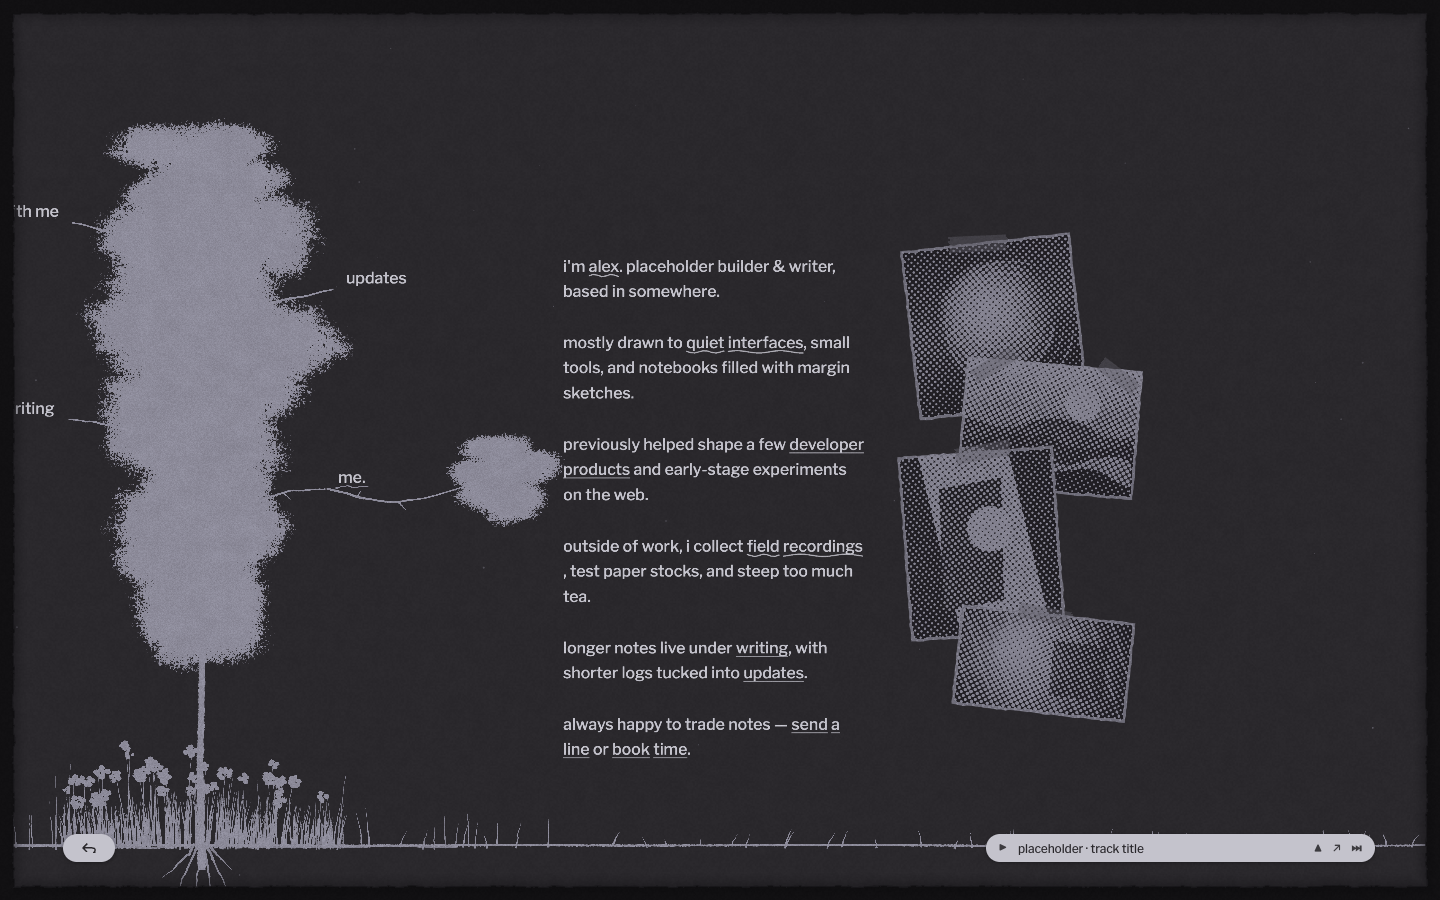
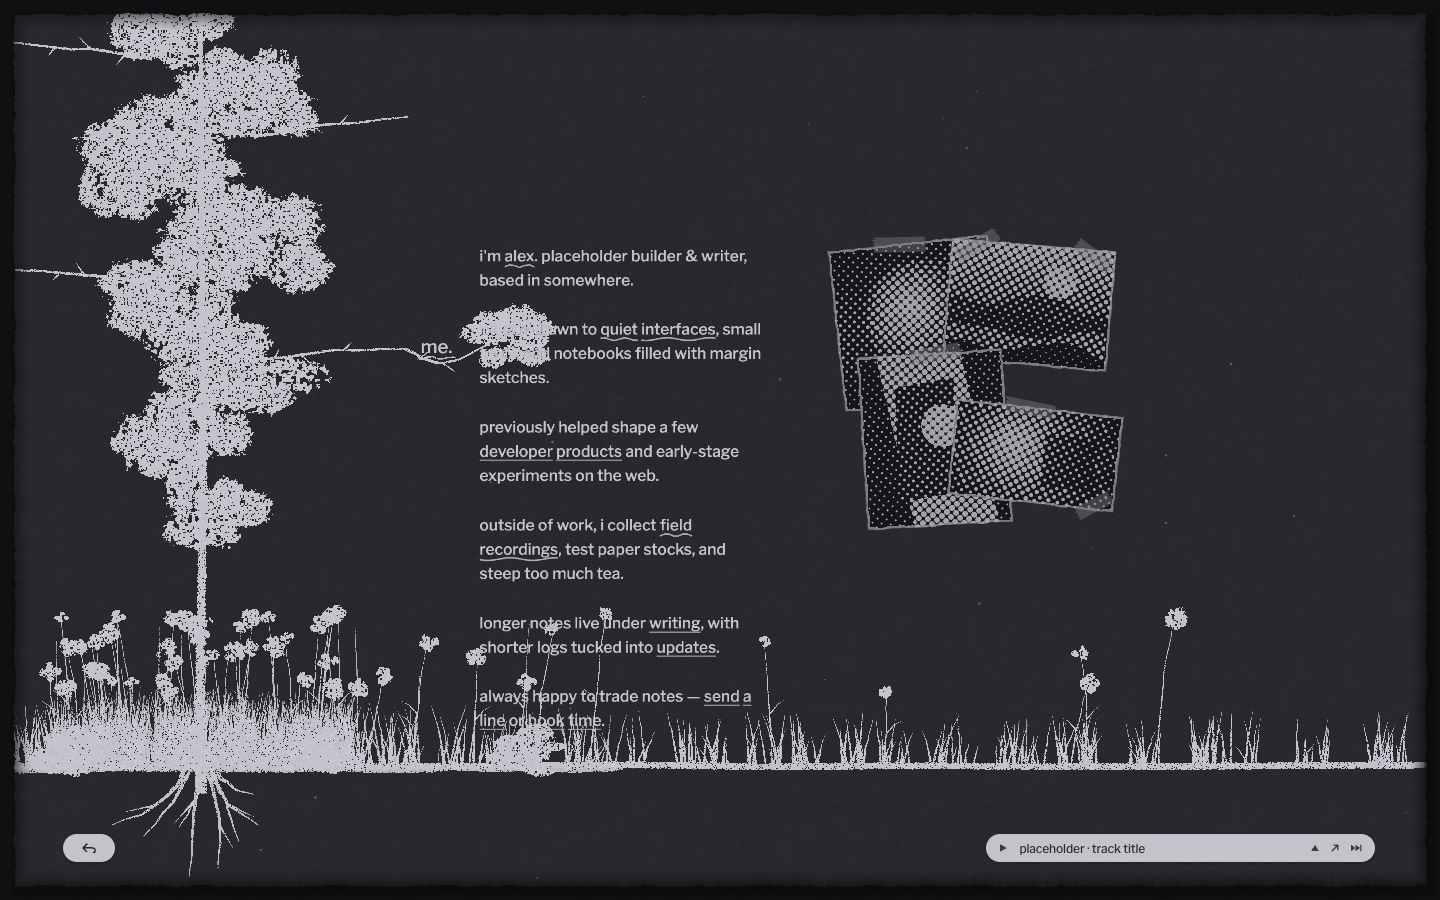
docs(verification): update 1440x900 and 390x844@2x screenshots and Round 1 report

diff --git a/docs/verification.md b/docs/verification.md
@@ -3,25 +3,28 @@
 ## 1. Environment & Tooling
 
 - **Project**: `/Users/mac/workspace/projects/ink-tree-site`
-- **Stack**: Vite `^6.3.5`, React `^19.1.0`, TypeScript `^5.8.3`, Three.js `^0.176.0`, Motion `^12.12.0`, `@mdx-js/rollup` `^3.1.0`, `@fontsource/libre-franklin` `^5.2.6`, `@fontsource/ibm-plex-mono` `^5.2.6`
+- **Stack**: Vite `^6.4.6`, React `^19.3.1`, TypeScript `^5.8.3`, Three.js `^0.176.0`, Motion `^12.43.0`, `@mdx-js/rollup` `^3.1.0`, `@fontsource/libre-franklin` `^5.3.0`, `@fontsource/ibm-plex-mono` `^5.2.6`
 - **Typecheck & Production Build**: `pnpm build` (`tsc -b && vite build`) — passed with exit code `0`.
 - **Headless Browser Verification**: Playwright (`chromium`, Google Chrome channel) running against `vite preview` under software WebGL (`--use-gl=angle --use-angle=swiftshader --enable-webgl --ignore-gpu-blocklist`) — finished with **0 console errors** and **0 uncaught page errors**.
 
-## 2. Checks Performed
+## 2. Round 1 Acceptance Fixes & Checks Performed
 
-### Desktop (`1440x900`)
-- Verified full-viewport WebGL `<canvas>` (`1440x900`), `#2a282c` paper background, `#111012` surround with viewport-space torn/beveled frame, drifting dust specks, tree silhouette, 4 interactive branches (`work with me`, `updates`, `writing`, `me`), ground grass/wildflowers, and bottom-right music widget + 2-line caption arrow ([`home-desktop.png`](./verification/home-desktop.png)).
-- Verified hover underline animation on `"me"` ([`hover-me.png`](./verification/hover-me.png)).
-- Verified opening `"me"` (`"me."`, camera pan/zoom to right, branch + canopy growth, 6 staggered bio paragraphs with wavy marks & links, 4 overlapping rotated/taped halftone photos, zoomed root & dense grass reveal, bottom-left `↩` back pill) and returning via `Escape` ([`click-me.png`](./verification/click-me.png)).
-- Verified opening `"updates"` (diagonal chain of 7 date canopies `apr 20` – `jun 13`), `"writing"` (`placeholder post` / `jan 1`), and `"work with me"` (`book a call` / `hello@example.com`), plus returning via `.back-pill` ([`click-updates.png`](./verification/click-updates.png), [`click-writing.png`](./verification/click-writing.png), [`click-work.png`](./verification/click-work.png)).
-- Verified pointer drag pan with inertia, mouse wheel scroll, keyboard arrow panning, and music widget Play/Next track switching (`placeholder · track title` -> `placeholder · dusk loop`).
-- Verified routing to `/updates/2026-06-13/`, `/blog/placeholder-post/` ([`post-desktop.png`](./verification/post-desktop.png)), and returning to `/` via `← Index`.
-- Verified `prefers-reduced-motion: reduce` context completes branch open transitions immediately without errors.
+### Fixes Verified
+1. **Canopy Ink, Dither & Cloud Layering (`#c4c3cc`)**: Fixed Three.js linear-vs-sRGB `THREE.Color` conversion (`THREE.LinearSRGBColorSpace` on `INK_COLOR`), increased screen-print contrast/pinhole dither and interior paper voids in `CANOPY_FRAG`, and split the canopy into 8–9 horizontally staggered front/back cloud layers (`z=1.65` and `z=2.35`) around the trunk (`z=2.0`) so coves, dark seams, and the central trunk peek through.
+2. **Branches**: Extended all 4 primary branches to `~60–80px` past the canopy silhouette with straighter organic paths, crisp thorn nodes, and `~8px` label clearance.
+3. **Ground Flora, Shrubs & Roots**: Added full-width clustered grass bands, staggered tall weed/wildflower stems (`1.25x–2.8x` band height) with stippled flower heads, branching sub-ground roots, and 4 low shrub clusters revealed when zooming/opening branches.
+4. **Torn Bevel Border & Dust**: Added DPR-normalized torn frame widths (`~13.5px` CSS desktop margin, `~8px` mobile margin), down-right cast shadow, stronger `18px` inner bevel shading, and 150 brighter drifting dust specks.
+5. **`me` Expanded View**: Positioned desktop camera so the trunk rests near `x≈14%` and ground near `y≈85%`, hid inactive sibling branch labels, added a small canopy cloud on the extended `me.` branch, aligned bio paragraphs at `x≈33%, y≈27%` (`~300px` column), overlapped the 2x2 rotated (`±3.6°–6.4°`) dark halftone photo collage from `x≈58%, y≈27%` with semi-transparent masking tape, and staggered paragraph/photo reveals across `~1.5s`.
+6. **`updates` Expanded View**: Positioned tree in lower-left (`x≈24%`), ordered the 7 descending canopies from closest/largest (`jun 13`) near the trunk to farthest/smallest (`apr 20`) at the tip along an up-right diagonal branch with a single tip fork.
+7. **`writing` & `work` Expanded Views**: Re-centered cameras cleanly on the active branch and hid the remaining 3 top-level branch labels.
+8. **Music Widget (`desktop` & `390x844@2x`)**: Placed the 2-line caption above the pill on both desktop and mobile with the curved down-pointing arrow on the left, replaced Unicode/OS-emoji controls with crisp `#2a282c` monochrome inline SVGs, and offset `.music-widget.has-back` on mobile so `.back-pill` and `.music-pill` do not overlap.
+9. **Playwright Clickability & Stability**: Rendered actual visible label text inside `.tree-hit-target` controls at `z-index: 15`, snapped settled camera interpolation to prevent subpixel drift, and removed duplicate `.sr-only` `<button>` elements inside `<main>`. Verified `await page.locator('main button:visible, main a:visible').filter({ hasText: /^me$/ }).click({ timeout: 3000 })` passes cleanly (1 exact match, hover stable, 0 sibling branch buttons visible after expansion).
+10. **Post Pages (`/blog/*`, `/updates/*`)**: Strengthened the `150px` subtle horizontal divider (`~135px` rendered under `zoom: 0.9`) above `.post-footer-links` and removed inline `<code>` box styling and backticks (`codeCount: 0`).
 
-### Mobile (`390x844`, touch enabled)
-- Verified centered tree layout, top-level branch label placement, bottom grass band, centered music pill & 2-line caption below the grass ([`home-mobile.png`](./verification/home-mobile.png)).
-- Verified opening `"me"` on mobile (`me.` branch at left, bio column, 2x2 overlapping taped halftone photo collage clearing the ground band and bottom player, `↩` back pill) ([`click-me-mobile.png`](./verification/click-me-mobile.png)).
-- Verified mobile MDX update post route `/updates/2026-06-13/` (single-column padding, hidden desktop top-right CTA below `768px`, inline procedural abstract study figure) ([`post-mobile.png`](./verification/post-mobile.png)).
+### Screenshots Captured
+- **Desktop (`1440x900`)**: [`home-desktop.png`](./verification/home-desktop.png), [`hover-me.png`](./verification/hover-me.png), [`click-me.png`](./verification/click-me.png), [`click-updates.png`](./verification/click-updates.png), [`click-writing.png`](./verification/click-writing.png), [`click-work.png`](./verification/click-work.png), [`post-desktop.png`](./verification/post-desktop.png).
+- **Mobile (`390x844@2x`, `780x1688` output, touch enabled)**: [`home-mobile.png`](./verification/home-mobile.png), [`click-me-mobile.png`](./verification/click-me-mobile.png), [`click-updates-mobile.png`](./verification/click-updates-mobile.png), [`click-writing-mobile.png`](./verification/click-writing-mobile.png), [`click-work-mobile.png`](./verification/click-work-mobile.png), [`post-mobile.png`](./verification/post-mobile.png).
+- **Reduced Motion (`1440x900`, `prefers-reduced-motion: reduce`)**: Verified instant branch open transitions with 0 errors.
 
 ## 3. Residual Visual & Functional Differences
 
@@ -31,9 +34,8 @@ This implementation targets perceptual and interactive parity while generating 1
 2. **Paper grain, torn border, and ink stippling texture**: Implemented via custom procedural GLSL value/FBM noise shaders (`src/tree/shaders.ts`) rather than raster texture stamps, resulting in slightly more uniform micro-grain distribution across scales.
 3. **Bio photography & update imagery**: Uses 4 procedurally drawn abstract grayscale compositions (`rings`, `horizon`, `monolith`, `lattice` in `src/tree/proceduralArt.ts`) screened through our halftone shader, plus SVG abstract studies (`src/components/AbstractStudy.tsx`) in update posts instead of real photographs.
 4. **Ambient audio widget**: Synthesizes 3 calming WebAudio chord/arpeggio loops (`src/audio/synthPlayer.ts`) on demand instead of streaming external/copyrighted audio files; the external arrow (`↗`) links to placeholder URLs.
-5. **Hand-drawn music caption lettering & arrow**: Rendered cleanly with styled Libre Franklin + italic contrast and SVG curved arrow (`src/components/MusicWidget.tsx`) rather than custom scanned handwriting glyphs.
-6. **Mobile `"me"` card layout**: Bio column and 2x2 photo pile are scaled to fit cleanly above the ground band and fixed music bar in `390x844` without clipping.
-7. **Software WebGL rendering**: Verified in headless Chrome via SwiftShader ANGLE; hardware GPUs may exhibit subtle subpixel antialiasing differences on crisp text planes and halftone dots.
+5. **Hand-drawn music caption lettering & arrow**: Rendered with styled Libre Franklin + SVG curved arrow (`src/components/MusicWidget.tsx`) rather than scanned handwriting glyphs.
+6. **Software WebGL rendering**: Verified in headless Chrome via SwiftShader ANGLE; hardware GPUs may exhibit subtle subpixel antialiasing differences on crisp text planes and halftone dots.
 
 ## 4. Original Asset & Dependency Provenance
 
